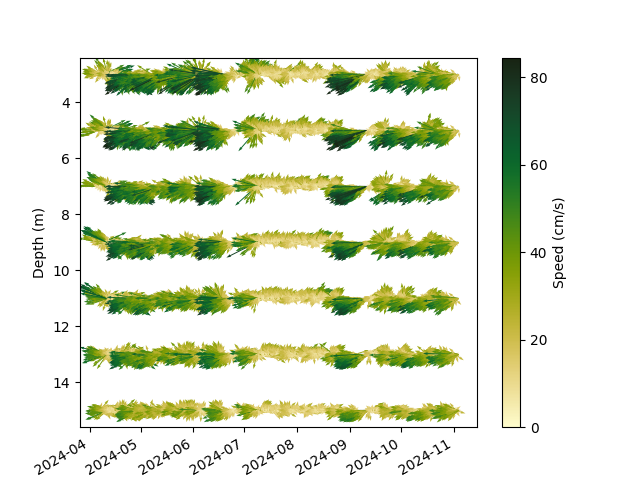
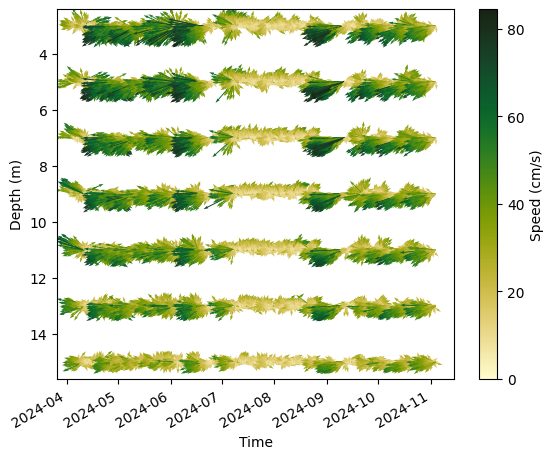
update examples

diff --git a/src/gerg_plotting/plotting_classes/histogram.py b/src/gerg_plotting/plotting_classes/histogram.py
@@ -13,7 +13,7 @@ class Histogram(Plotter):
     Inherits from Plotter class for basic plotting functionality.
     """
 
-    def get_2d_range(self, x: str, y: str, **kwargs) -> tuple[list,dict]:
+    def _get_2d_range(self, x: str, y: str, **kwargs) -> tuple[list,dict]:
         """
         Calculate or retrieve the range for 2D histograms.
 
@@ -61,6 +61,8 @@ class Histogram(Plotter):
         ``**kwargs`` : dict
             Additional keyword arguments passed to matplotlib.pyplot.hist
         """
+        # Extract show_plot from kwargs and remove it from kwargs
+        show_plot = kwargs.pop('show_plot', True)
         # Initialize the figure and axis
         self.init_figure(fig, ax)
         # Plot a histogram of the selected variable data
@@ -69,6 +71,9 @@ class Histogram(Plotter):
         self.ax.set_ylabel('Count')
         # Set the x-axis label to the variable's label
         self.ax.set_xlabel(self.data[var].label)
+        # Show the plot if show_plot is True
+        if show_plot:
+            self.show()
 
     def plot2d(self, x: str, y: str, fig=None, ax=None, **kwargs) -> None:
         """
@@ -87,10 +92,12 @@ class Histogram(Plotter):
         ``**kwargs`` : dict
             Additional keyword arguments passed to matplotlib.pyplot.hist2d
         """
+        # Extract show_plot from kwargs and remove it from kwargs
+        show_plot = kwargs.pop('show_plot', True)
         # Initialize the figure and axis
         self.init_figure(fig, ax)
         # Get the range for the 2D histogram and update kwargs
-        range, kwargs = self.get_2d_range(x, y, **kwargs)
+        range, kwargs = self._get_2d_range(x, y, **kwargs)
         # Plot a 2D histogram using the x and y data
         hist = self.ax.hist2d(self.data[x].values, self.data[y].values, range=range, **kwargs)
         # Set the x-axis label to the x variable's label
@@ -99,6 +106,9 @@ class Histogram(Plotter):
         self.ax.set_ylabel(self.data[y].label)
         # Add a colorbar to represent the count values
         cbar = plt.colorbar(hist[3], ax=self.ax, label='Count', orientation='horizontal')
+        # Show the plot if show_plot is True
+        if show_plot:
+            self.show()
 
     def plot3d(self, x: str, y: str, fig=None, ax=None, **kwargs) -> None:
         """
@@ -117,12 +127,14 @@ class Histogram(Plotter):
         ``**kwargs`` : dict
             Additional keyword arguments passed to numpy.histogram2d
         """
+        # Extract show_plot from kwargs and remove it from kwargs
+        show_plot = kwargs.pop('show_plot', True)
         # Import the colormap from matplotlib
         from matplotlib import cm
         # Initialize the figure and axis for a 3D plot
         self.init_figure(fig, ax, three_d=True)
         # Get the range for the 2D histogram and update kwargs
-        range, kwargs = self.get_2d_range(x, y, **kwargs)
+        range, kwargs = self._get_2d_range(x, y, **kwargs)
         # Calculate a 2D histogram for the x and y data
         h, xedges, yedges = np.histogram2d(self.data[x].values, self.data[y].values, range=range, **kwargs)
         # Create a mesh grid using the edges of the histogram bins
@@ -138,3 +150,6 @@ class Histogram(Plotter):
         self.ax.set_ylabel(self.data[y].label)
         # Set the initial viewing angle for the 3D plot
         self.ax.view_init(elev=30, azim=45)
+        # Show the plot if show_plot is True
+        if show_plot:
+            self.show()

diff --git a/src/gerg_plotting/tools/tools.py b/src/gerg_plotting/tools/tools.py
@@ -193,6 +193,10 @@ def _get_var_mapping(column_names:list,provided_map:None|dict=None) -> dict:
     """
     Create variable mapping from DataFrame columns.
 
+    To add a new default variable:
+
+    Add the variable name to keys and add any synonyms or blocklists that may exist to their respective dictionaries
+
     Parameters
     ----------
     df : pandas.DataFrame
@@ -203,20 +207,22 @@ def _get_var_mapping(column_names:list,provided_map:None|dict=None) -> dict:
     dict
         Mapping of standard variable names to DataFrame columns
     """
-    keys = ['lat', 'lon', 'depth', 'time', 'temperature', 'salinity', 'density', 'u', 'v','w', 'speed','cdom','chlor','turbidity']
+    keys = ['lat', 'lon', 'depth', 'time', 'temperature', 'salinity', 'density', 'u', 'v','w', 'speed','cdom','chlor','turbidity','oxygen','buoyancy_frequency']
     values = column_names
     synonyms = {
         'depth': ['pressure', 'pres'],
         'temperature': ['temp', 'temperature_measure'],
         'salinity': ['salt', 'salinity_level'],
-        'density': ['density_metric', 'rho'],
+        'density': ['density_metric', 'rho','dens'],
         'u': ['eastward_velocity', 'u_component', 'u_current', 'current_u'],
         'v': ['northward_velocity', 'v_component', 'v_current', 'current_v'],
         'w': ['downward_velocity','upward_velocity','w_component', 'w_current', 'current_w'],
         's': ['combined_velocity','velocity','speed', 's_current', 'current_s'],
         'cdom': ['cdom_concentration','cdom_concentration_measure','sci_flbbcd_cdom_units'],
         'chlor': ['chlorophyll_concentration','chlorophyll_concentration_measure','sci_flbbcd_chlor_units'],
-        'turbidity': ['turbidity_measure','turbidity_units','turbidity','sci_flbbcd_bb_units'],
+        'turbidity': ['turb','turbidity_measure','turbidity_units','turbidity','sci_flbbcd_bb_units'],
+        'oxygen': ['oxy','oxygen'],
+        'buoyancy_frequency': ['buoyancy_frequency_measure','buoyancy_frequency','buoyancy_frequency_units'],
     }
     blocklist = {
         's': ['sound','pres'],

diff --git a/src/gerg_plotting/plotting_classes/scatter_plot_3d.py b/src/gerg_plotting/plotting_classes/scatter_plot_3d.py
@@ -42,7 +42,7 @@ class ScatterPlot3D(Plotter3D):
         
         return np.array(points)
 
-    def scatter(self, x:str, y:str, z:str, var: str | None = None,show_var_cbar:bool=True) -> None:
+    def scatter(self, x:str, y:str, z:str, var: str | None = None,show_var_cbar:bool=True,show_plot:bool=False) -> None:
         self.init_figure()
         # Ensure that the points data is in (n_points by 3) format
         points = self.make_points_3d(x, y, z)
@@ -76,6 +76,8 @@ class ScatterPlot3D(Plotter3D):
                               position_y=self.scatter_scalar_bar_defaults['position_y'], 
                               position_x=self.scatter_scalar_bar_defaults['position_x'], 
                               fmt=self.scatter_scalar_bar_defaults['fmt'])
+        if show_plot:
+            self.show()
 
     def _get_bathy_volume(self,struct:pv.StructuredGrid,bottom_z:float) -> None:
         top = struct.points.copy()
@@ -145,11 +147,13 @@ class ScatterPlot3D(Plotter3D):
             self.add_colorbar(title='Depth (m)', height=0.7,position_y=0.15, position_x = 0.90, vertical=True, below_label='', above_label='', fmt="%0.1f")
 
 
-    def map(self, var: str | None = None, show_var_cbar:bool=True,show_bathy_cbar:bool=True) -> None:
+    def map(self, var: str | None = None, show_var_cbar:bool=True,show_bathy_cbar:bool=True,show_plot=False) -> None:
         self.init_figure()
         x = 'lon'
         y = 'lat'
         z = 'depth'
         self.scatter(x, y, z, var,show_var_cbar=show_var_cbar)
         self._add_bathy(show_bathy_cbar=show_bathy_cbar)
+        if show_plot:
+            self.show()
         

diff --git a/src/gerg_plotting/data_classes/variable.py b/src/gerg_plotting/data_classes/variable.py
@@ -79,11 +79,11 @@ class Variable():
 
     @property
     def vmin(self) -> float:
-        """Minimum value for visualization, using 1st percentile for numeric data."""
+        """Minimum value for visualization, using 2nd percentile for numeric data."""
         if self._vmin is None:
             valid_types = np.typecodes['AllFloat'] + np.typecodes['AllInteger']
             if self.values.dtype.kind in valid_types:
-                self._vmin = np.nanmin(self.values)
+                self._vmin = np.nanpercentile(self.values,2)
         return self._vmin
 
     @vmin.setter
@@ -93,11 +93,11 @@ class Variable():
 
     @property
     def vmax(self) -> float:
-        """Maximum value for visualization"""
+        """Maximum value for visualization. Using 98th percentile for numeric data."""
         if self._vmax is None:
             valid_types = np.typecodes['AllFloat'] + np.typecodes['AllInteger']
             if self.values.dtype.kind in valid_types:
-                self._vmax = np.nanmax(self.values)
+                self._vmax = np.nanpercentile(self.values,98)
         return self._vmax
 
     @vmax.setter

diff --git a/src/gerg_plotting/data_classes/data.py b/src/gerg_plotting/data_classes/data.py
@@ -76,6 +76,8 @@ class Data:
     cdom: Iterable|Variable|None = field(default=None)
     chlor: Iterable|Variable|None = field(default=None)
     turbidity: Iterable|Variable|None = field(default=None)
+    oxygen: Iterable|Variable|None = field(default=None)
+    buoyancy_frequency: Iterable|Variable|None = field(default=None)
 
     # Bounds
     _bounds:Bounds = field(default=None)
@@ -127,6 +129,8 @@ class Data:
         self._init_variable(var='cdom', cmap=cmocean.cm.matter, units="ppb", vmin=None, vmax=None)
         self._init_variable(var='chlor', cmap=cmocean.cm.algae, units="μg/L", vmin=None, vmax=None)
         self._init_variable(var='turbidity', cmap=cmocean.cm.turbid, units=None, vmin=None, vmax=None)
+        self._init_variable(var='oxygen', cmap=cmocean.cm.oxy, units='ml/L', vmin=0, vmax=12)
+        self._init_variable(var='buoyancy_frequency', cmap=cmocean.cm.balance, units=None, vmin=None, vmax=None)
 
 
     def calculate_speed(self,include_w:bool=False) -> None:

diff --git a/docs/examples/plot_set_vmin_vmax.py b/docs/examples/plot_set_vmin_vmax.py
@@ -17,13 +17,14 @@ data = data_from_netcdf('example_data/sample_glider_data.nc'
 plotter_data = ScatterPlot(data)
 plotter_data.hovmoller('salinity')
 plotter_data.show()
-
+plotter_data.save('example_plots/set_vmin_vmax_default.png',bbox_inches='tight')
 # %%
 # Set the vmin and vmax for the salinty variable
 # -----------------------------------------------------------------------
-data.salinity.vmin = 35.5
-data.salinity.vmax = 37
+data.salinity.vmin = 34.5
+data.salinity.vmax = 37.1
 # Show the default unsliced data
 plotter_data = ScatterPlot(data)
 plotter_data.hovmoller('salinity')
 plotter_data.show()
+plotter_data.save('example_plots/set_vmin_vmax.png',bbox_inches='tight')

diff --git a/docs/examples/plot_changing_axes_and_fig.py b/docs/examples/plot_changing_axes_and_fig.py
@@ -1,6 +1,6 @@
 """
 Changing axes and figure visualization
-===================================
+==================================================
 
 How to modify a plot using fig and ax.
 
@@ -26,6 +26,6 @@ scatter.ax.set_facecolor('gray')
 # Let's change the title from "T-S Diagram" to something more descriptive
 scatter.ax.set_title('T-S Diagram with Depth',fontdict={'fontsize':14,'fontweight':'bold'})
 
-scatter.save('example_plots/modifying_plot.png')
+scatter.save('example_plots/modifying_plot.png',bbox_inches='tight')
 
 scatter.show()

diff --git a/docs/examples/plot_data_object_example.py b/docs/examples/plot_data_object_example.py
@@ -62,5 +62,5 @@ print("3. Added custom variable to existing data object")
 from gerg_plotting.plotting_classes.histogram import Histogram
 plot = Histogram(custom_data)
 plot.plot('temperature')
-plot.save('example_plots/data_object_example.png')
+plot.save('example_plots/data_object_example.png',bbox_inches='tight')
 print("Created example plot: simple_temperature_histogram.png")

diff --git a/src/gerg_plotting/__init__.py b/src/gerg_plotting/__init__.py
@@ -13,5 +13,5 @@ from .data_classes.variable import Variable
 from .data_classes.bounds import Bounds
 from .data_classes.data import Data
 from .tools.tools import data_from_df,data_from_csv,data_from_netcdf,data_from_ds,interp_glider_lat_lon
-from .download_example_data import download_example_data
+from .tools.download_example_data import download_example_data
 import cmocean

diff --git a/docs/examples/plot_data_from_netcdf_with_custom_vars_example.py b/docs/examples/plot_data_from_netcdf_with_custom_vars_example.py
@@ -19,6 +19,6 @@ data.custom_variables['m_pressure'].label = 'Mission Pressure'
 # Plot the data
 scatter = ScatterPlot(data)
 scatter.hovmoller('m_pressure')
-scatter.save('example_plots/data_from_netcdf_with_custom_vars_example.png')
+scatter.save('example_plots/data_from_netcdf_with_custom_vars_example.png',bbox_inches='tight')
 
 

diff --git a/docs/examples/plot_quiver_2d_example.py b/docs/examples/plot_quiver_2d_example.py
@@ -16,6 +16,6 @@ data.speed.units = 'cm/s'
 scatter = ScatterPlot(data)
 scatter.quiver2d(x='time',y='depth',quiver_scale=800)
 scatter.ax.invert_yaxis()
-scatter.save('example_plots/quiver_2d_example.png')
+scatter.save('example_plots/quiver_2d_example.png',bbox_inches='tight')
 # If you want to show the plot
 # scatter.show()

diff --git a/docs/examples/plot_map_simple.py b/docs/examples/plot_map_simple.py
@@ -12,4 +12,4 @@ data = data_from_netcdf('example_data/sample_glider_data.nc',interp_glider=True,
 plotter = MapPlot(data)
 plotter.scatter('time',show_bathy=True,show_coastlines=False)
 
-plotter.save('example_plots/map_simple.png')
+plotter.save('example_plots/map_simple.png',bbox_inches='tight')
